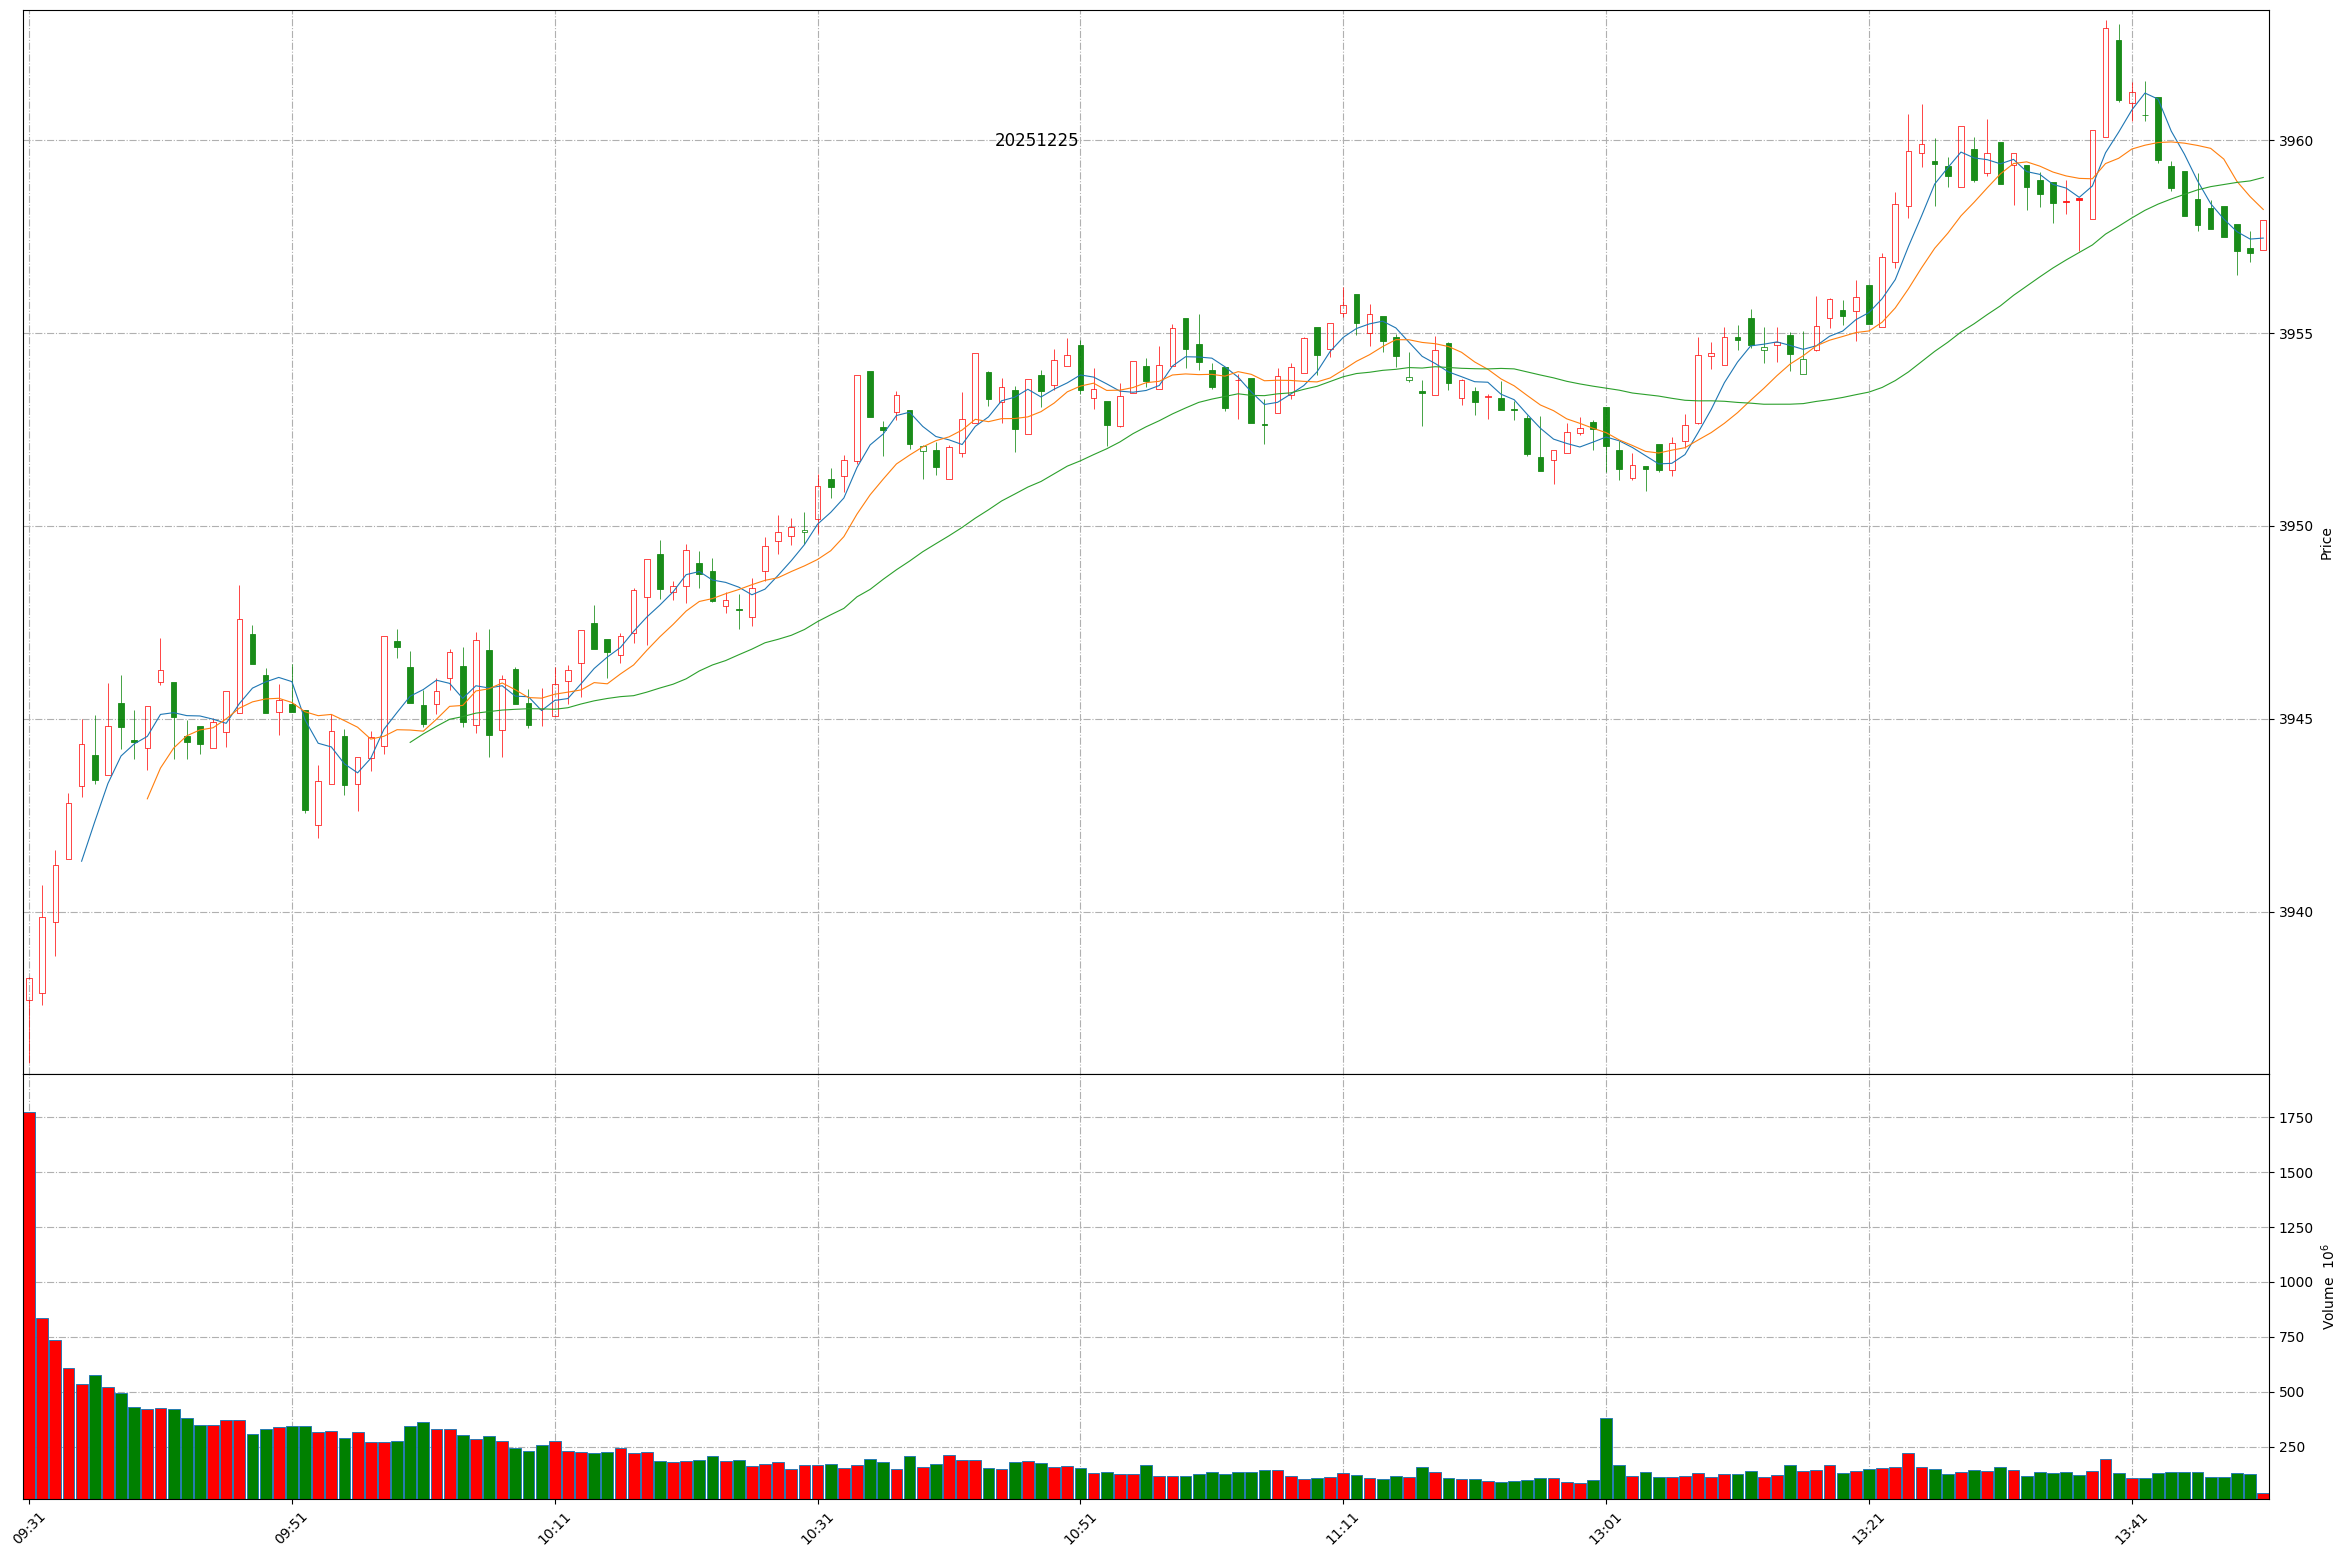
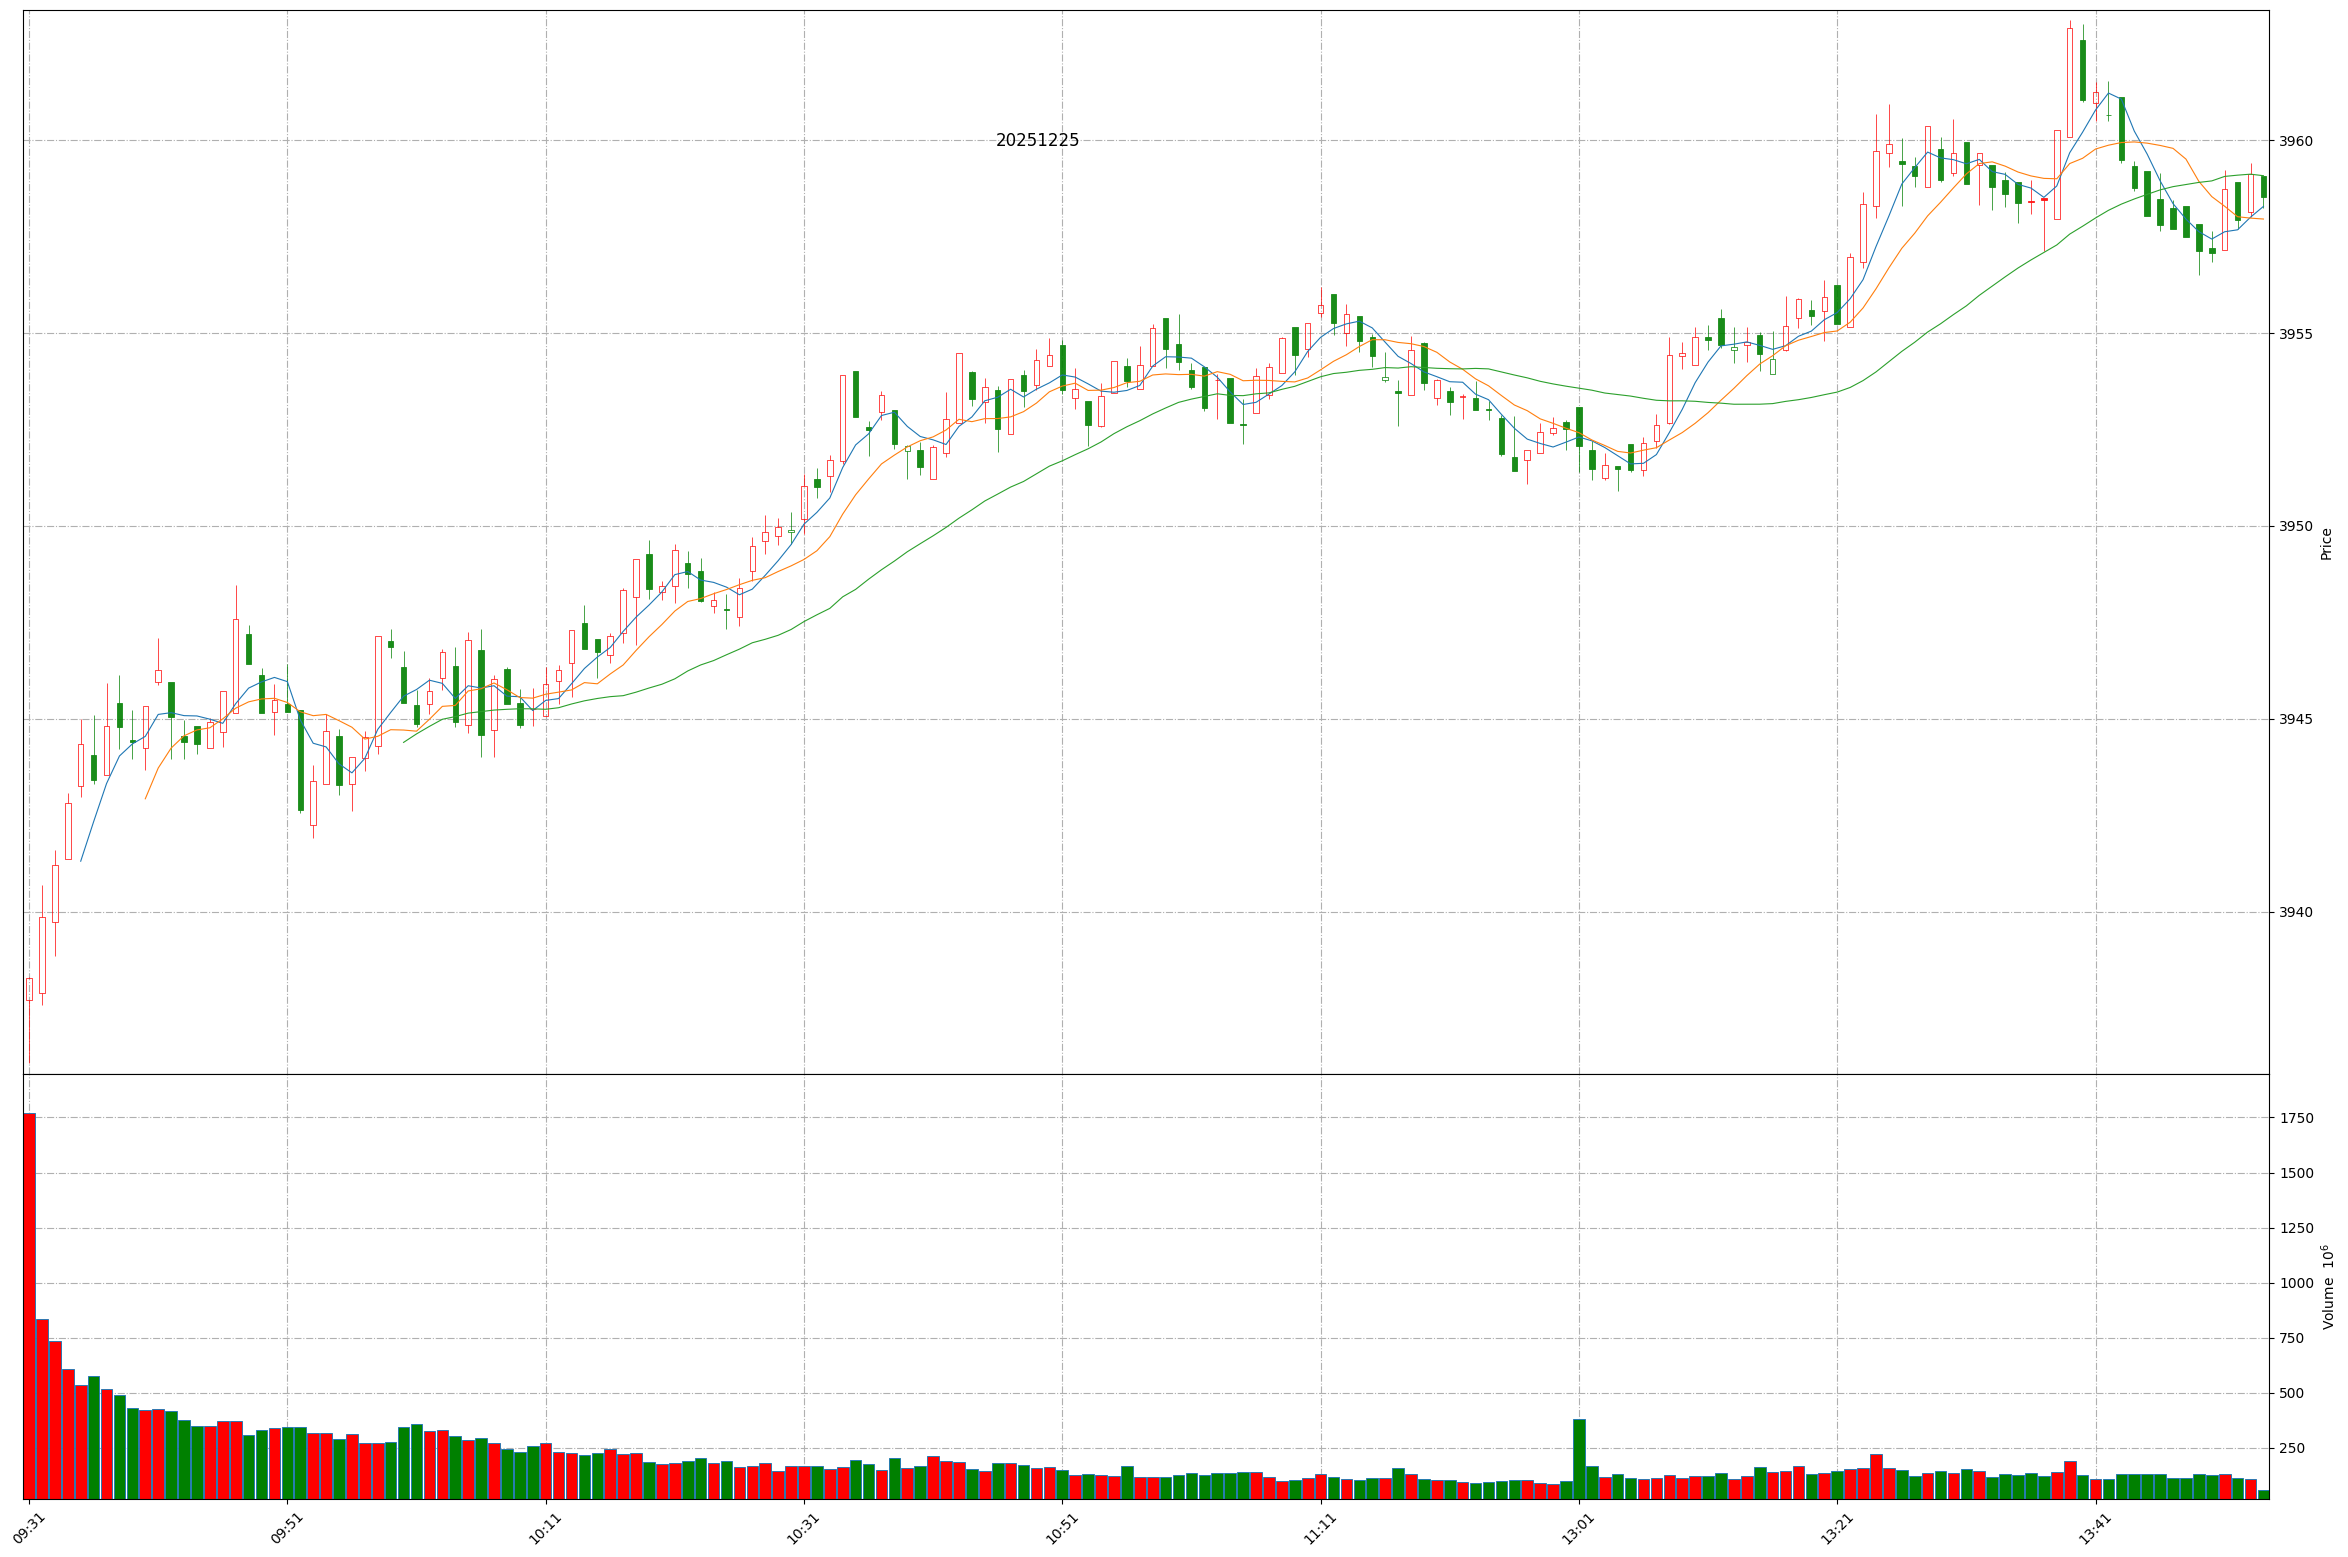
Github action update at 2025-12-25 13:53:53.

diff --git a/README.md b/README.md
@@ -1,11 +1,11 @@
 
 # Daily-A-share-market-quotes 每日 A 股指数（5min 更新）- 20251225
 
-### 上证指数 20251225 13:50
+### 上证指数 20251225 13:53
 ![](./fig/2025/12/20251225-sh000001.png)
 
-### 深证成指 20251225 13:50
+### 深证成指 20251225 13:53
 ![](./fig/2025/12/20251225-sz399001.png)
 
-### 北证50 20251225 13:50
+### 北证50 20251225 13:53
 ![](./fig/2025/12/20251225-bj899050.png)
